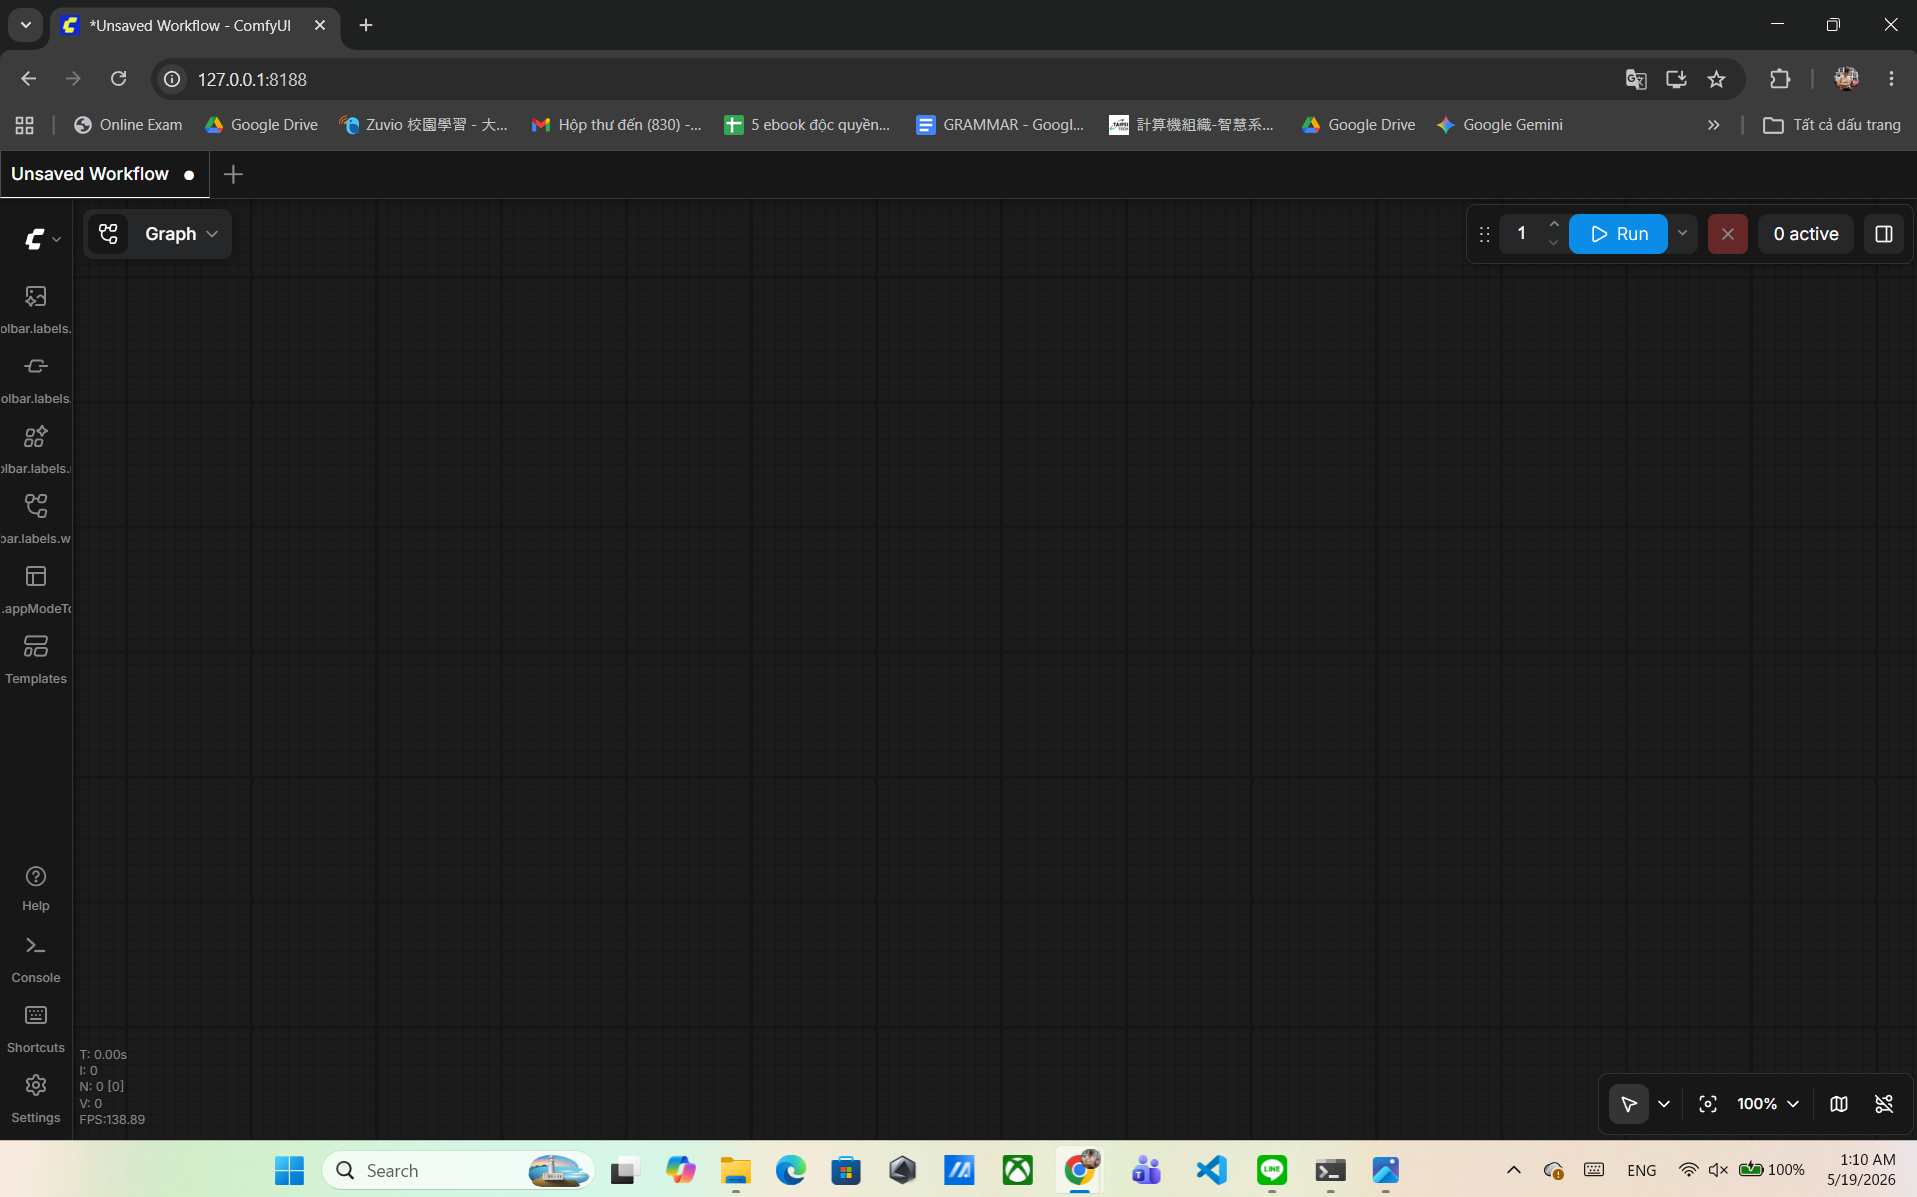
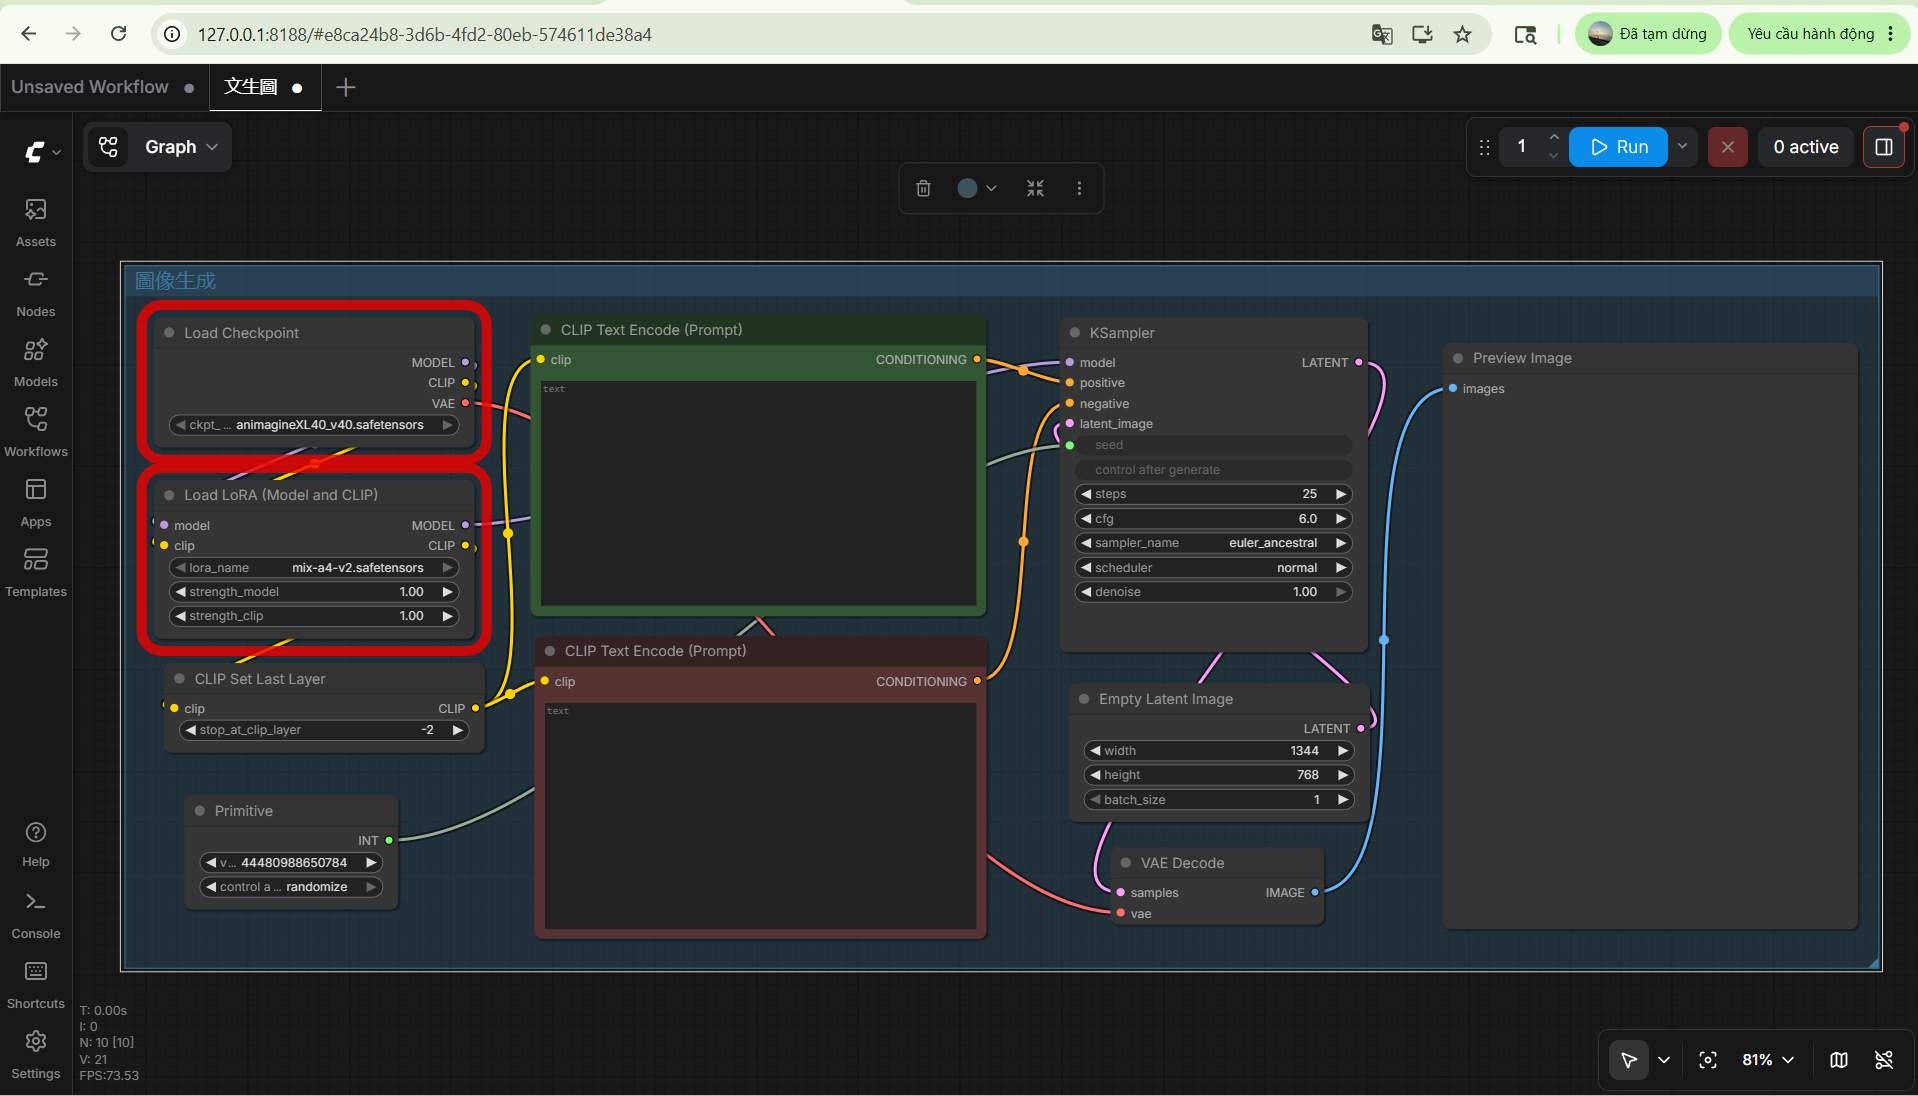
Hw5

diff --git a/hw05/index.html b/hw05/index.html
@@ -193,25 +193,56 @@ Through this assignment, I mastered the core principles of Generative AI. First,
   </div>
 
   <!-- ------------------------------------------------>
-
+   
+  <!-- ------------------------------------------------>
+  <div class="row hw12">
+    <div class="col-md-12 twenty" style="background-color:#00AC48;">    
+      <figure>
+        <figcaption>ComfyUI+工作流</figcaption>
+            <img src="AI Homework 5" width="100%"/>
+        </figure>
+    </div>
+  </div>
 
   <!-- ------------------------------------------------>
-<div class="row hw12 bottomrow">
-  <div class="col-md-3 twenty">
-    <figcaption>1. 建置ComfyUI環境</figcaption>
-    <img class="withborder" src="AI Homework 5.png" width="100%">
+
+    <div class="row hw12">
+    <div class="col-md-12 twenty" style="background-color:#ff0000;"> 
+      <figure>
+        <figcaption>完成芙莉蓮、欣梅爾Checkpoint文生圖</figcaption>
+        <a href="https://civitai.com/models/820208/obsession-illustrious-xl">Checkpoint連結</a>
+        <p>1024 * 1280</p>
+        <p>anime screencap, masterpiece, high quality, Frieren & Himmel (Sousou no Frieren), 1boy 1girl, outdoors, upper body, eye contact, light blue hair, cape, capelet, earrings, dappled sunlight, daytime, hand on head, Kesyeru
+          &lt;,
+        </p>
+        <p>nsfw, low resolution, poor anatomy, flawed hands, text errors, missing fingers, extra digits, cropped, worst quality, jpeg artifacts, signature, watermark, username, blurry, artist name
+        </p>
+        <img src="AI Homework 5_2.png" width="100%"/>
+      </figure>
+    </div>
   </div>
-  
-  <div class="col-md-3 twenty">
-    <figcaption>2. 完成芙莉蓮Checkpoint文生圖</figcaption>
-    <img class="withborder" src="AI Homework 5_2.png" width="100%">
+  <!-- ------------------------------------------------>
+  <div class="row hw12">
+    <div class="col-md-12 twenty" style="background-color:#7030a0;">    
+      <figure>
+        <figcaption>替換Ckeckpoint、LoRA完成芙莉蓮、欣梅爾文生圖</figcaption>
+        <a href="https://civitai.com/models/820208/obsession-illustrious-xl">Checkpoint連結</a>
+        <br>
+        <a href="https://civitai.com/models/1204563?modelVersionId=1356500">LoRA連結1</a>
+        <br>
+        <a href="https://civitai.com/models/1201355/r754496-or-shiiros-styles-or-niji">LoRA連結2</a>
+        <p>1024 * 1280</p>
+        <p>LoRA1 Strength : 0.5</p>
+        <p>LoRA2 Strength : 0.45</p>
+        <p>r17329_illu, xxx667_illu, very awa, anime screencap, masterpiece, high quality, Frieren & Himmel (Sousou no Frieren), 1boy 1girl, outdoors, upper body, eye contact, light blue hair, cape, capelet, earrings, dappled sunlight, daytime, hand on head, Kesyeru, <lora:r17329_illu-000015:0.45>, <lora:XXX477-000016:0.5> 
+        </p>
+        <p>nsfw, low resolution, poor anatomy, flawed hands, text errors, missing fingers, extra digits, cropped, worst quality, jpeg artifacts, signature, watermark, username, blurry, artist name
+        </p>
+        <img src="AI Homework 5_3 .png" width="100%"/>
+      </figure>
+    </div>
   </div>
-  
-  <div class="col-md-3 twenty">
-    <figcaption>3. 加上LoRA完成芙莉蓮文生圖</figcaption>
-    <img class="withborder" src="AI Homework 5_3.png" width="100%">
-  </div>
-</div>
+
   <!-- ------------------------------------------------>
 
 